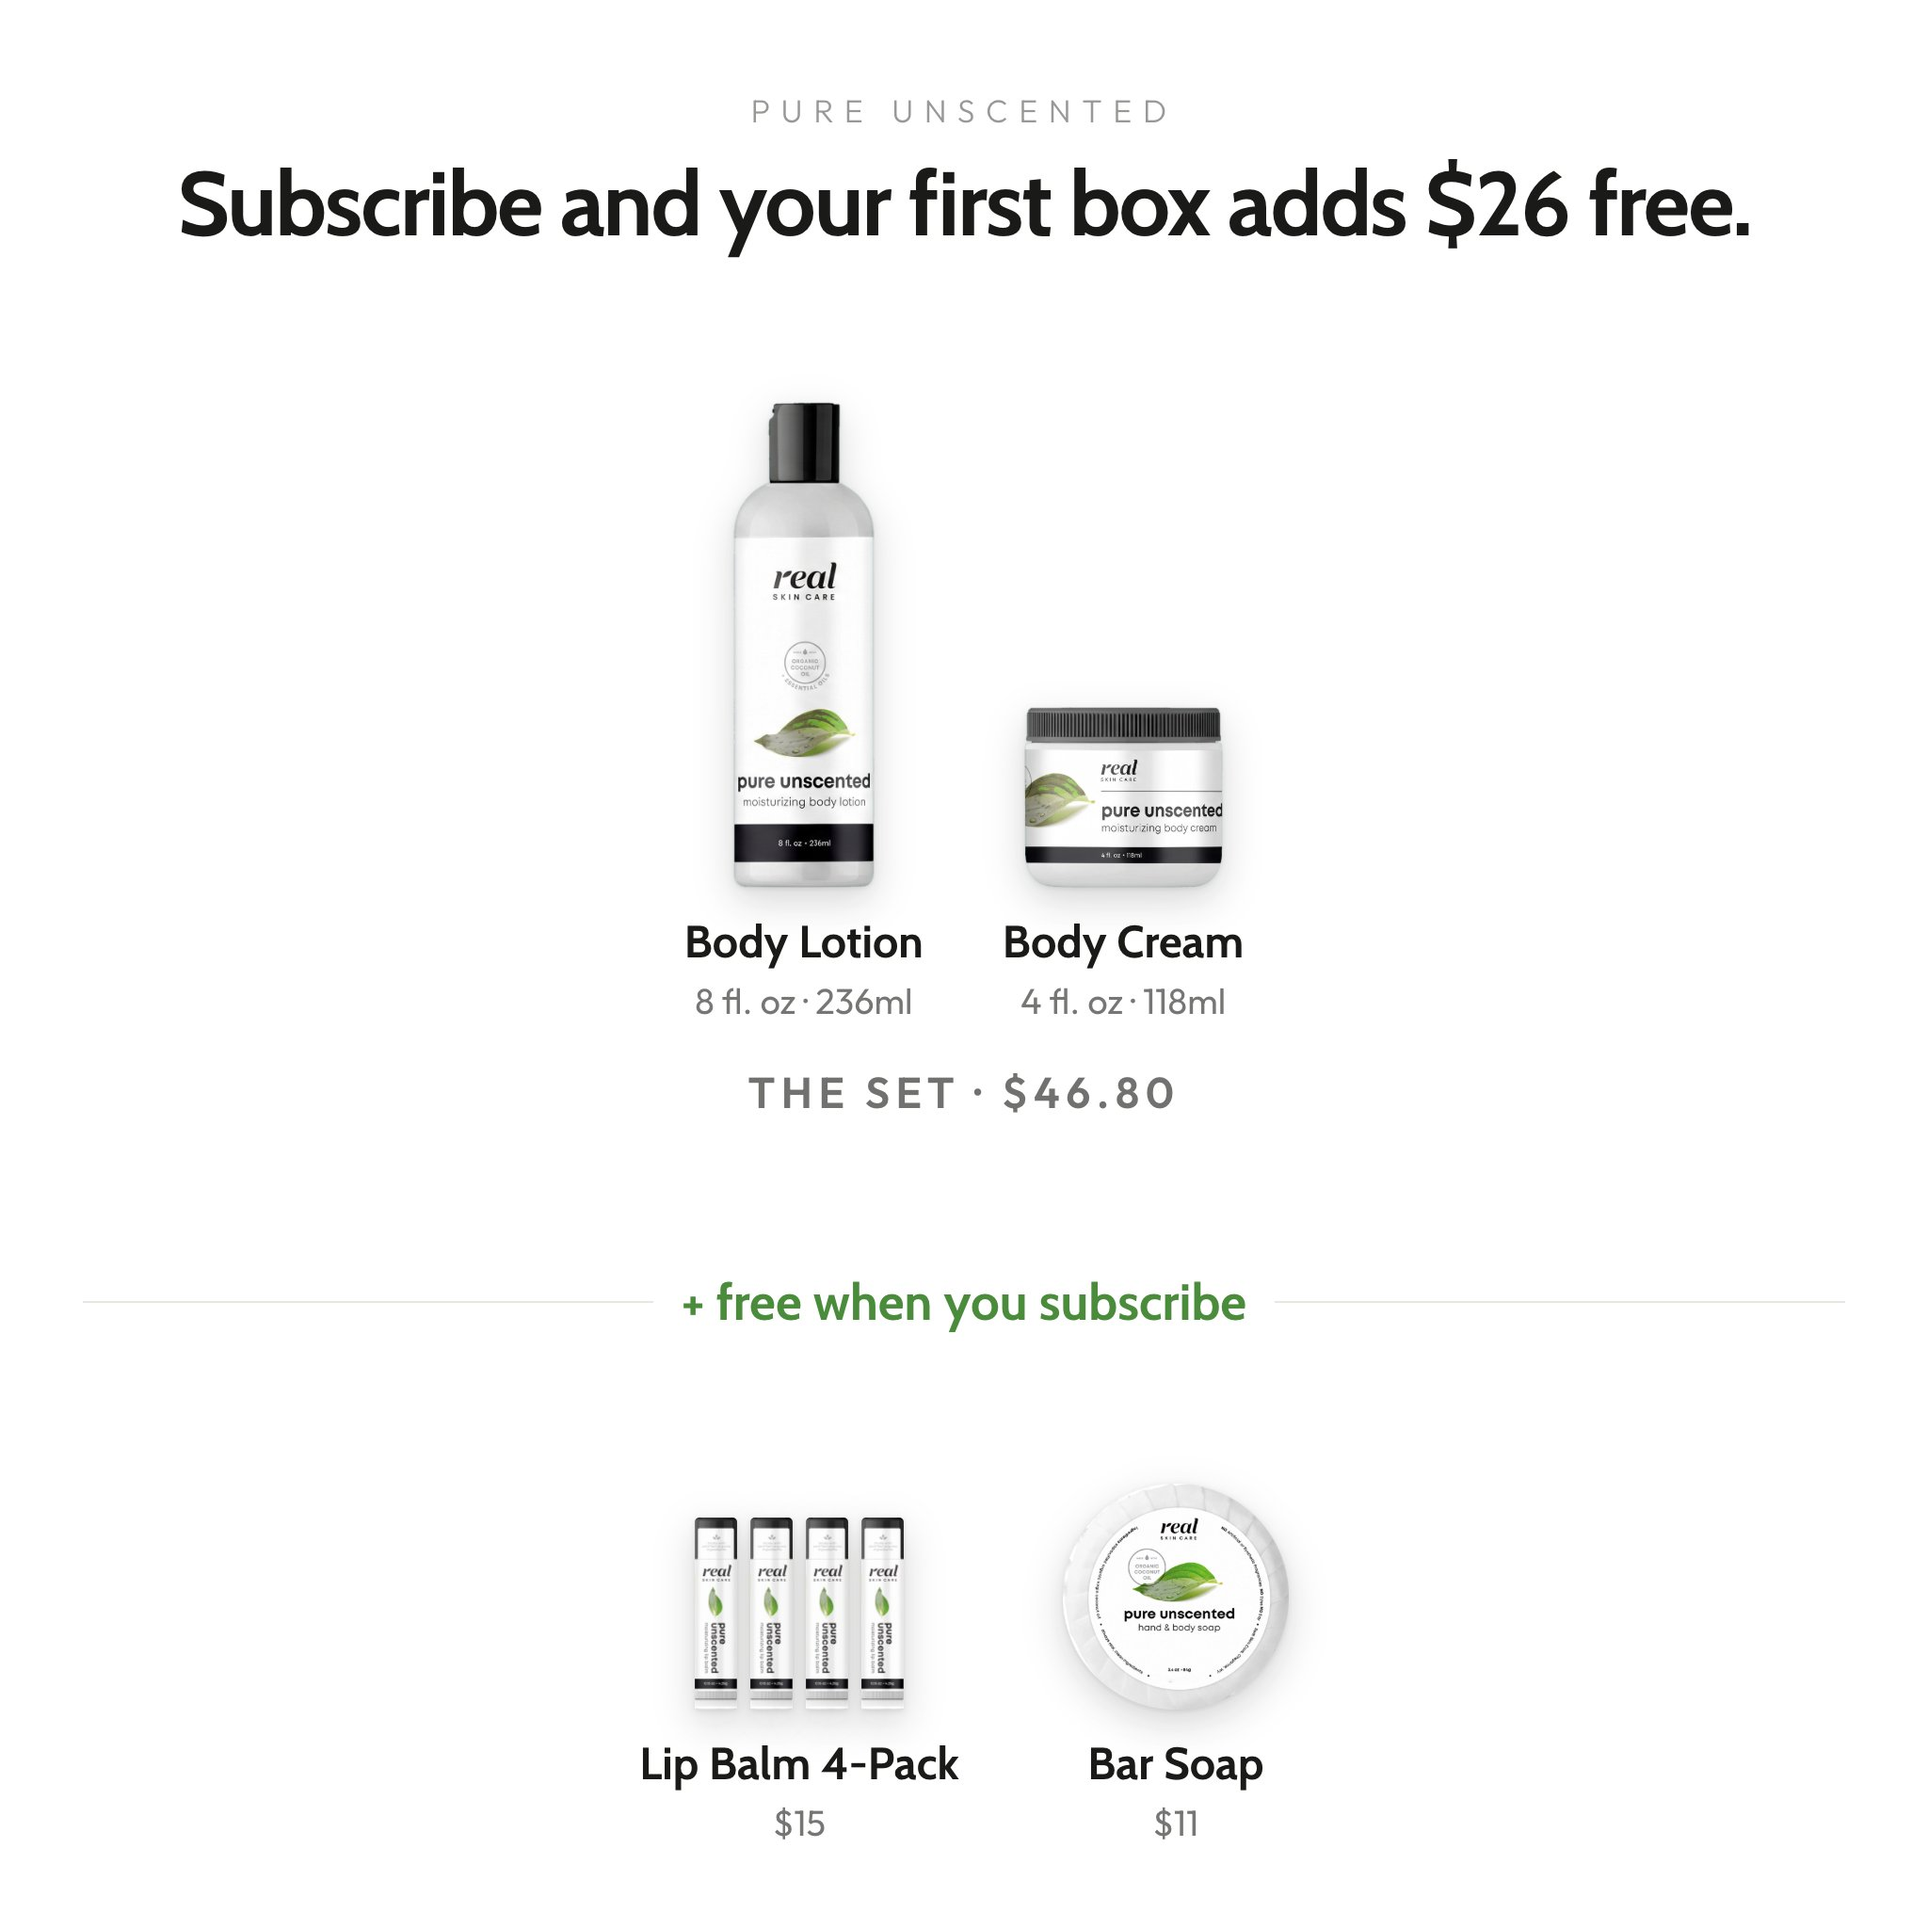
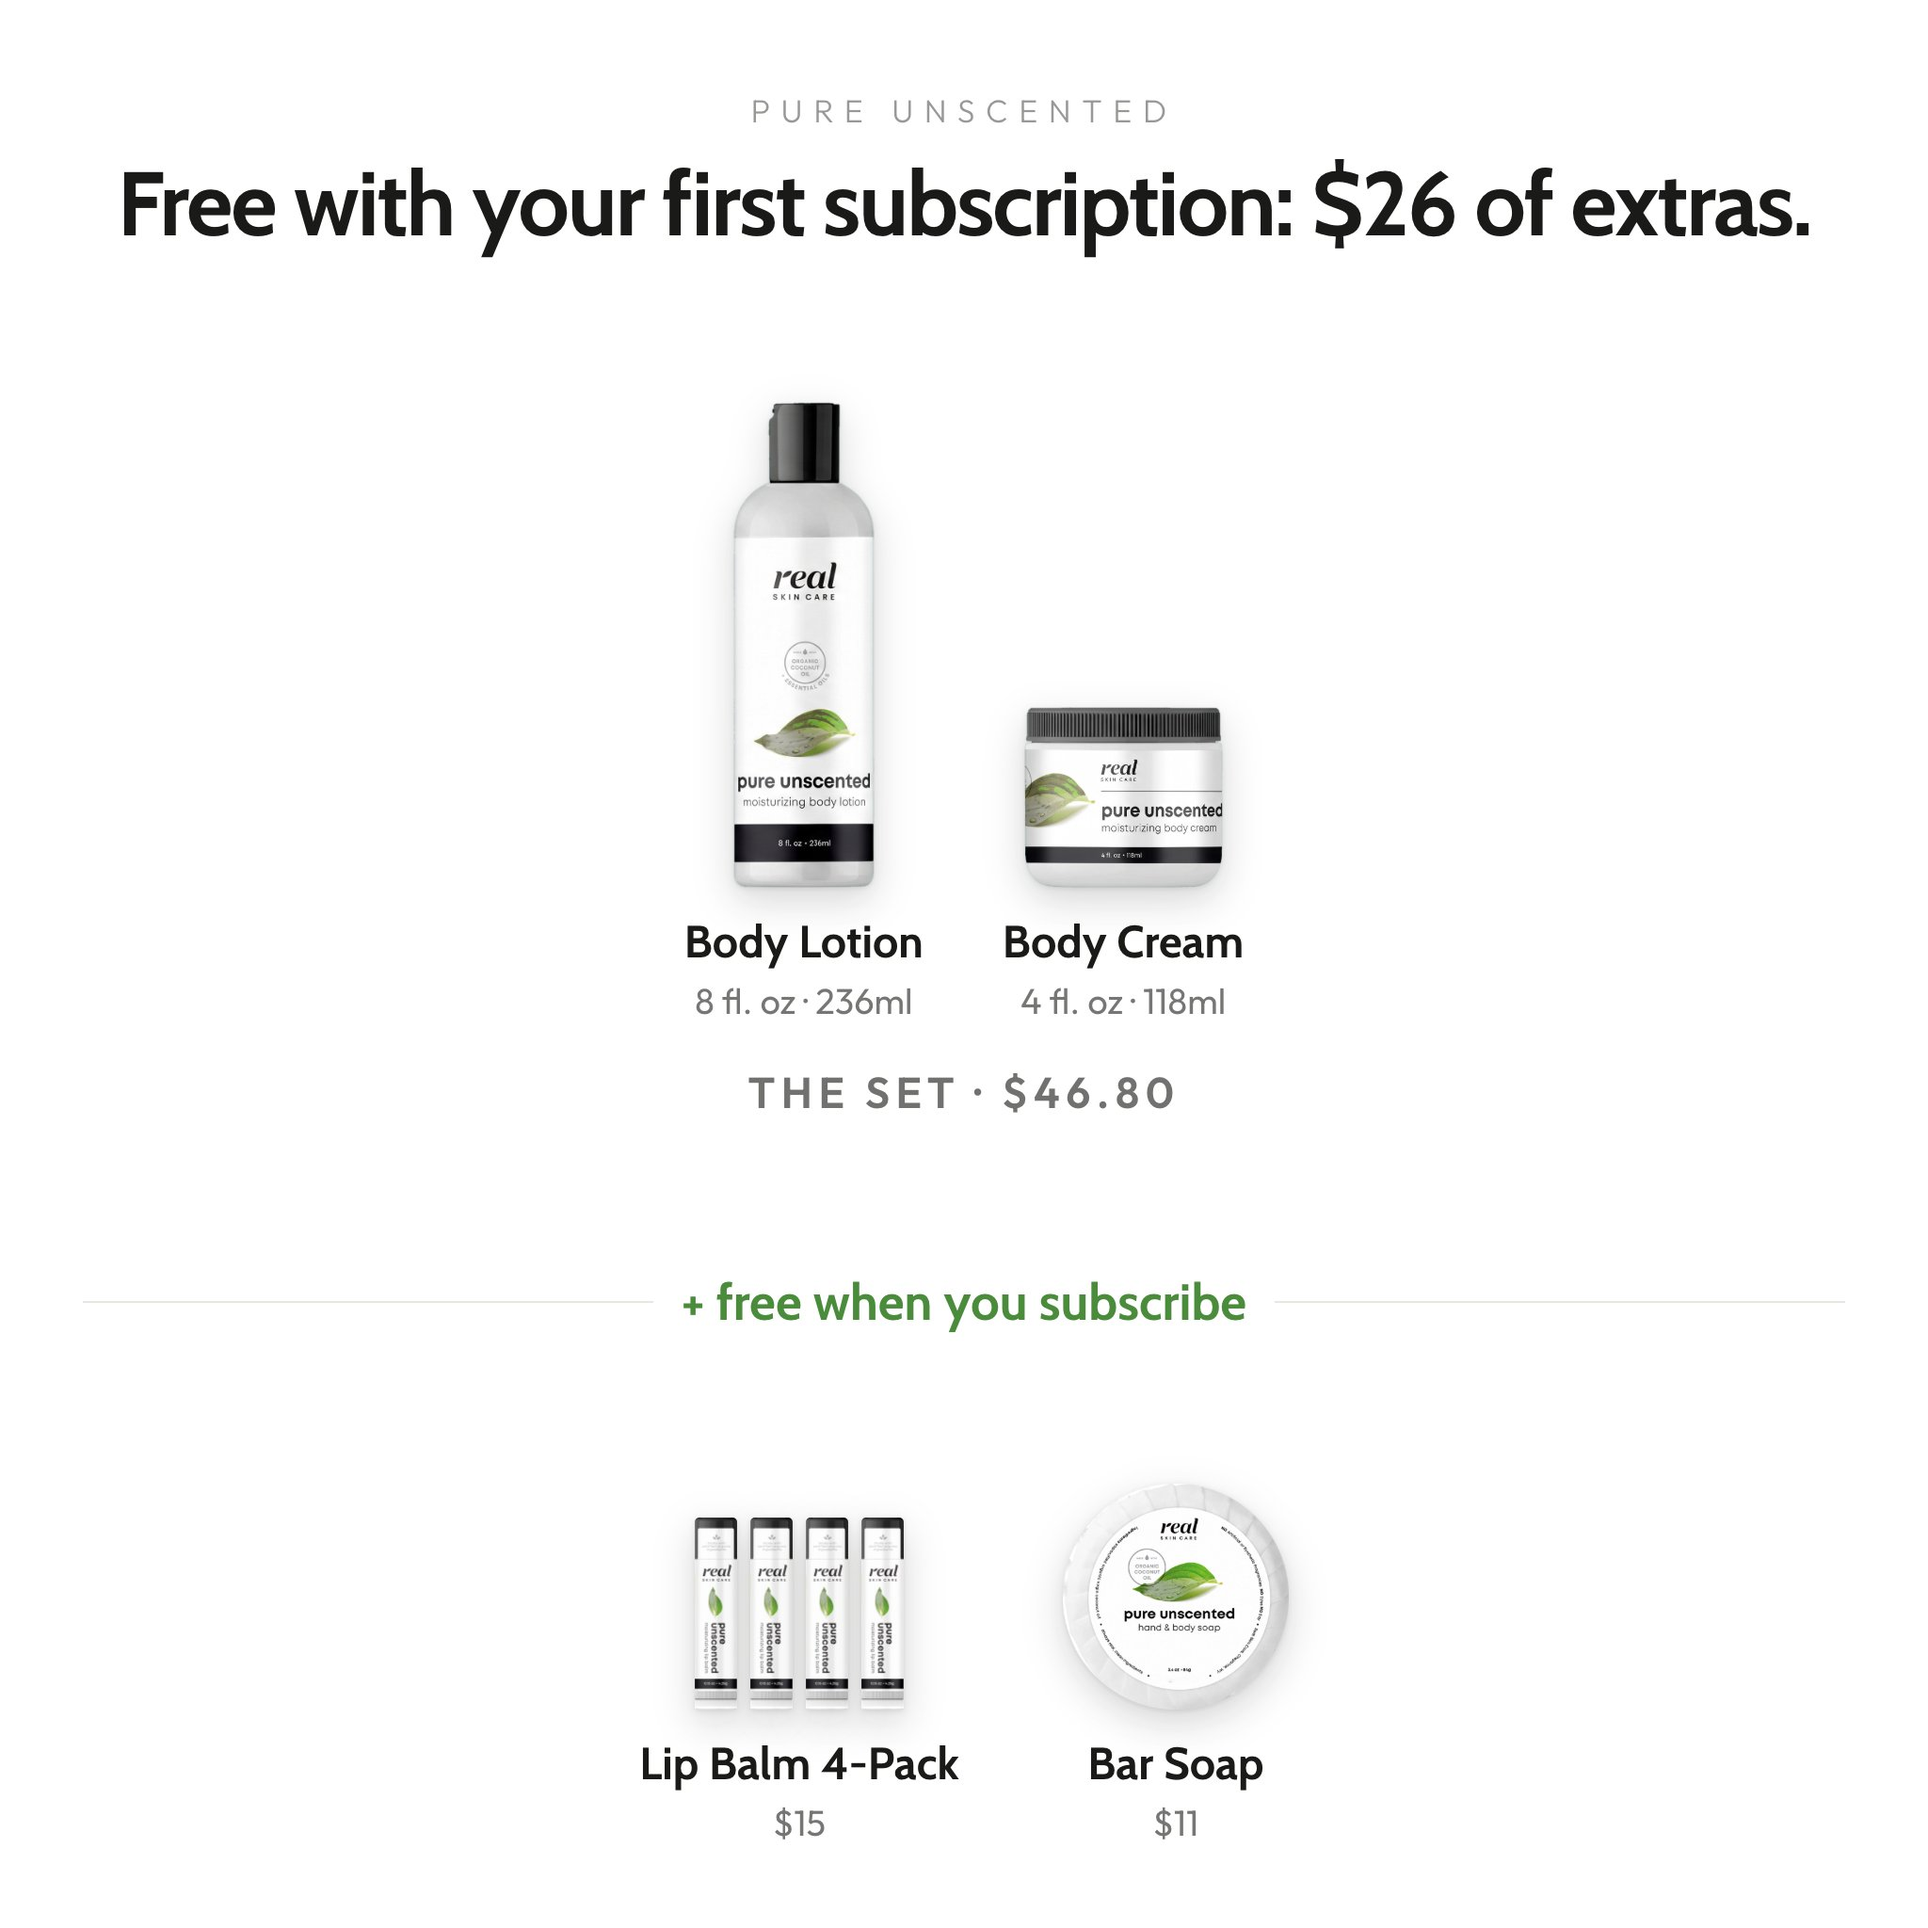
fix(pdp): rewrite the set's copy from the real formulations; Sean's headline
Sean confirmed none of aloe vera, oat extract or chamomile are in any RSC
product. Both surfaces that carried them are rewritten from
config/ingredients.json and applied to Shopify. Frames 2 and 4 are unblocked.

The product description also claimed a "gentle cleanser lifts impurities" — the
set is a lotion and a cream, there is no cleanser in it — and "the most effective
moisturizer for dry skin", an unqualified superlative. Both are gone. The new
copy names what is actually in each product: the lotion's six, the cream's seven,
five shared. The SEO keyword phrase and the closing CTA are preserved.

The meta description was nearly missed, and that is the part worth remembering.
The first verification stripped tags with <[^>]+> before searching, which deletes
a <meta> tag including its content attribute — so the phantom ingredients read as
"gone" while they were still live in description, og:description and
twitter:description, which is exactly what Google and every social share show.
When checking whether a claim is off a page, search the raw HTML.

Catalog-wide scan came back clean: no other product names an ingredient no RSC
product contains. Noted limit — it only catches catalog-wide absences, so it
would miss a real ingredient absent from that variant, which is the chamomile
case here.

Headline set to Sean's: "Free with your first subscription: $26 of extras."

That tripped the contingency guard, and the guard was wrong, not the headline:
[…]

Changed region(s): [[0.0625, 0.0625, 0.9375, 0.125]]

diff --git a/data/backups/products/sensitive-skin-starter-set.description.2026-08-01-after.html b/data/backups/products/sensitive-skin-starter-set.description.2026-08-01-after.html
@@ -1,0 +1,1 @@
+<p>Eight ingredients across two products, and not one of them is something your skin has to negotiate with. A <strong>moisturizer for dry skin</strong> that sensitive skin can actually tolerate. No guessing. No patch-test anxiety.</p><p>Each formula is handmade in small batches at Real Skin Care to protect ingredient integrity and prevent cross-contamination. The <strong>Body Lotion</strong> is six: purified spring water, organic virgin coconut oil, organic jojoba, organic plant-based emulsifying wax, organic red palm oil and organic grapefruit seed extract. Organic jojoba mirrors the skin's own sebum closely enough to absorb without leaving a film.</p><p>The <strong>Body Cream</strong> is for skin that needs more than a lotion. It shares five of those ingredients, drops the jojoba, and adds organic beeswax — a breathable barrier that locks moisture in without sealing pores closed the way petrolatum does — and organic palm stearic for real cream body instead of synthetic thickeners. Lotion in the morning, cream at night.</p><p><strong>Never in the formula:</strong> synthetic fragrance, parabens, phenoxyethanol, propylene glycol, mineral oil, petrolatum, dimethicone or lanolin. Pure Unscented means no essential oils at all.</p><p>Rebuilding after a reaction? Switching from conventional products? This set skips the trial phase entirely. Every ingredient was chosen because sensitive, dry skin responds just as much to what's absent as what's present.</p><p>Ships ready to use. Start your routine today.</p>

diff --git a/data/backups/products/sensitive-skin-starter-set.description.2026-08-01-before.html b/data/backups/products/sensitive-skin-starter-set.description.2026-08-01-before.html
@@ -1,0 +1,1 @@
+<p>Three ingredients — aloe vera, oat extract, chamomile — make this the most effective <strong>moisturizer for dry skin</strong> that sensitive skin can actually tolerate. No guessing. No patch-test anxiety.</p><p>Each formula is handmade in small batches at Real Skin Care to protect ingredient integrity and prevent cross-contamination. Organic virgin coconut oil absorbs without clogging. Oat extract and chamomile quiet redness fast. The gentle cleanser lifts impurities while leaving your moisture barrier completely intact.</p><p><strong>Never in the formula:</strong> synthetic fragrance, parabens, harsh sulfates, artificial dyes, or known reactive irritants.</p><p>Rebuilding after a reaction? Switching from conventional products? This set skips the trial phase entirely. Every ingredient was chosen because sensitive, dry skin responds just as much to what's absent as what's present.</p><p>Ships ready to use. Start your routine today.</p>

diff --git a/docs/handoffs/2026-08-01-sensitive-skin-set.md b/docs/handoffs/2026-08-01-sensitive-skin-set.md
@@ -85,7 +85,48 @@ Retention is the documented constraint on this business (18% repeat rate), and t
 exists precisely to buy a subscription start. Surfacing it in the gallery is the highest
 revenue-per-effort item in this bundle, ahead of any frame in the specced stack.
 
-## 🚩 Blocker for frames 2 and 4 — the PDP names three ingredients that are not in the set
+## ✅ RESOLVED 2026-08-01 — the phantom ingredients are off the live page
+
+Sean confirmed: *"none of those ingredients are in any of our products."* Both the
+product description and the SEO meta description have been rewritten from
+`config/ingredients.json` and applied to Shopify. **Frames 2 and 4 are unblocked.**
+
+What changed, and what it took to be sure it was really gone:
+
+| Surface | Was | Now |
+|---|---|---|
+| `descriptionHtml` | "Three ingredients — aloe vera, oat extract, chamomile…", plus a *"gentle cleanser"* the set does not contain and an unqualified "most effective" | Rewritten from the real formulations; both products' ingredients named |
+| `global.description_tag` (meta description, og:, twitter:) | "Aloe vera, oat extract & coconut oil — a complete moisturizer…" | "Coconut oil, jojoba & beeswax — a two-step moisturizer…" |
+
+**The meta description was nearly missed.** The first verification pass stripped
+tags with `<[^>]+>` before searching, which deletes a `<meta>` tag *including its
+`content` attribute* — so the phantom ingredients read as "gone" while they were
+still live in the meta description, og:description and twitter:description, i.e.
+in exactly what Google and every social share display. **When checking whether a
+claim is off a page, search the raw HTML, not the stripped text.**
+
+Backups of both states are in `data/backups/products/`.
+
+**Catalog-wide scan: clean.** Every product's description, meta description and
+meta title was checked against `config/ingredients.json` for ingredients no RSC
+product contains — no other product names one. One limit worth knowing: the scan
+only flags ingredients absent from the *whole* catalog, so it would not catch a
+product naming a real ingredient that is absent from *that variant* — which is
+precisely the chamomile case here (real, but only as an essential oil in Lavender
+& Rose, and this set is Pure Unscented). A variant-aware check does not exist yet.
+
+**Confirmed for frame 4: the union is EIGHT.** Lotion 6 + cream 7, sharing five —
+purified spring water, organic virgin coconut oil, organic plant-based
+emulsifying wax, organic grapefruit seed extract, organic red palm oil — with
+jojoba only in the lotion and palm stearic + beeswax only in the cream.
+
+**Still open, flagged not fixed:** *"handmade in small batches at Real Skin Care"*
+survives in the rewritten copy because it was pre-existing and Sean has not been
+asked about it — but it is **not** documented in `data/brand/brand-kit.json`,
+which records only "made in the USA" and Cheyenne. Worth confirming before it is
+repeated in a frame.
+
+## The original finding, kept for the record
 
 Found 2026-08-01 while wiring frame 6's `verify()`. The live `descriptionHtml` for
 `sensitive-skin-starter-set` opens:
